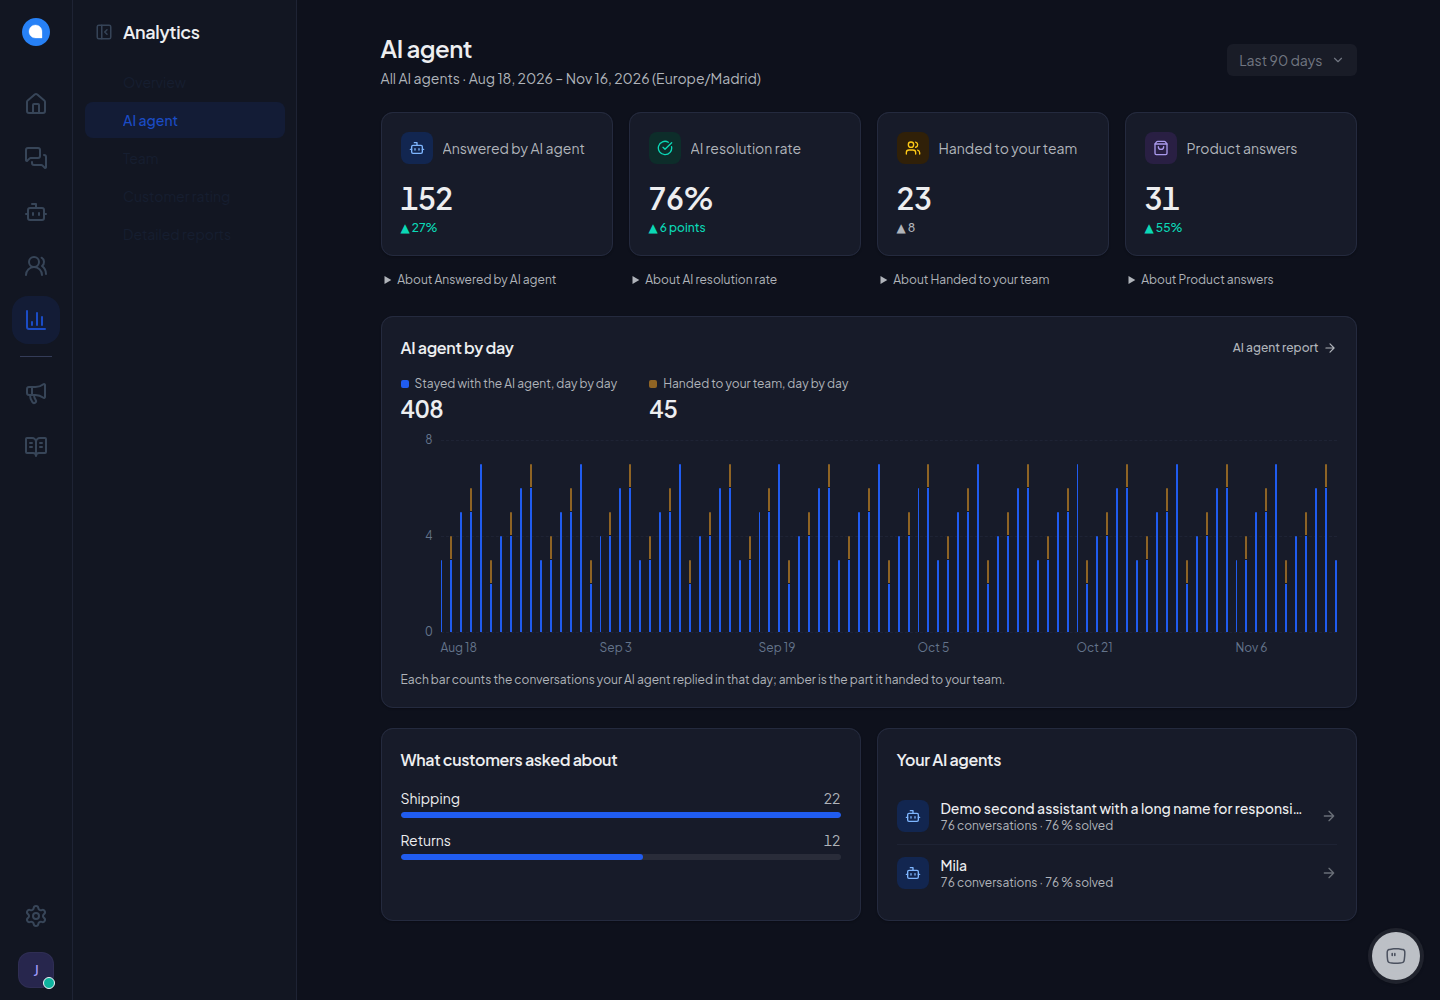
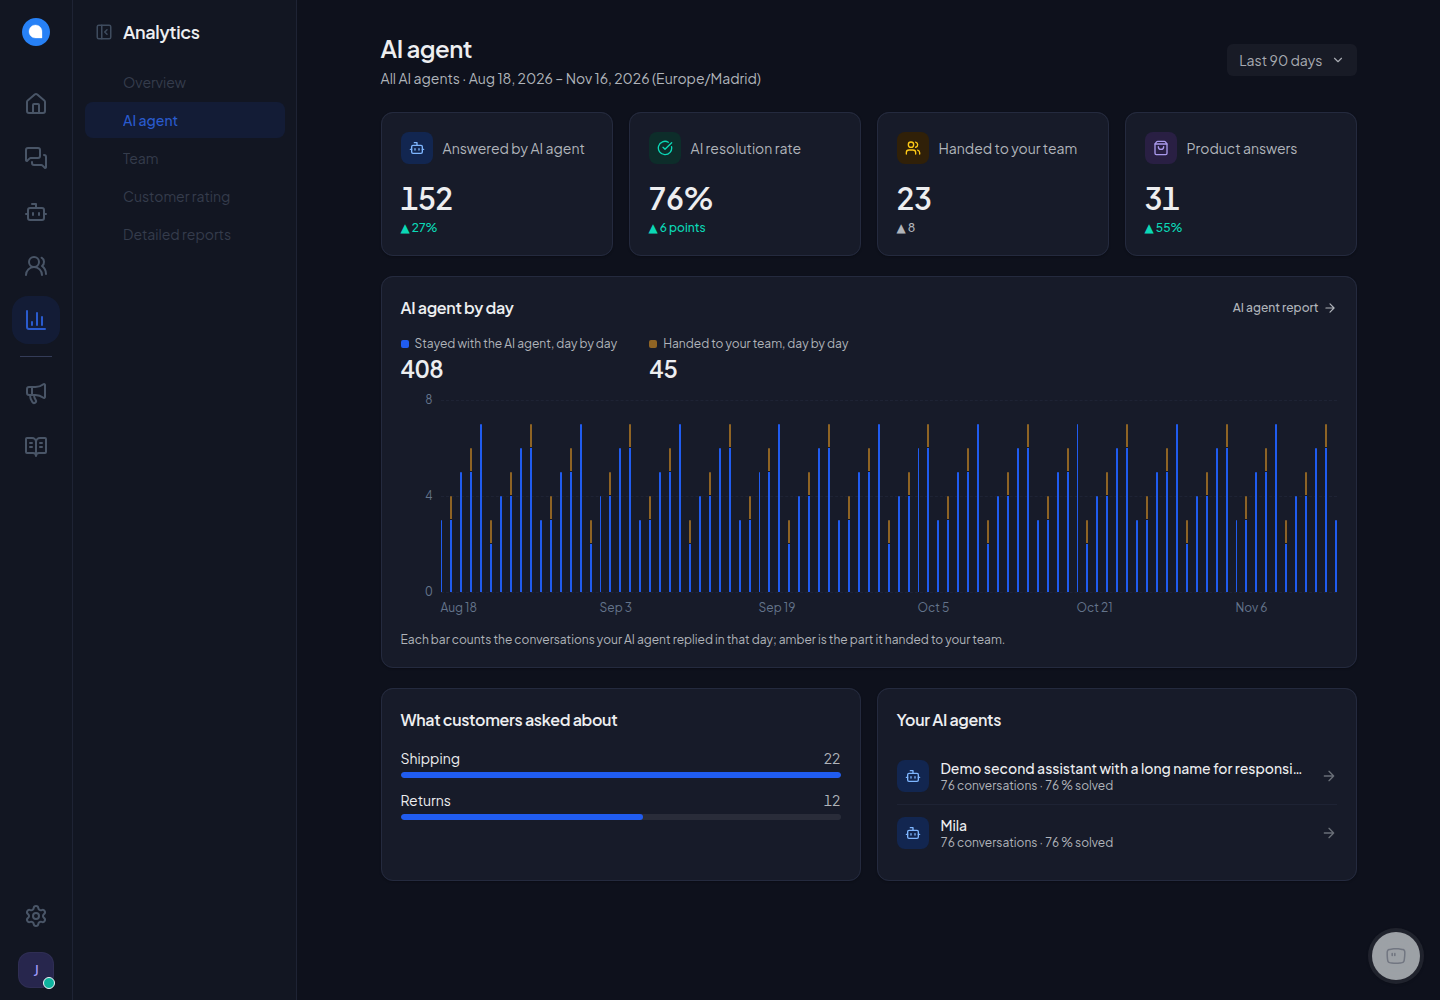
fix(analytics): remove metric explanation expanders (#242)

diff --git a/app/javascript/dashboard/routes/dashboard/analytics/components/MetricTiles.vue b/app/javascript/dashboard/routes/dashboard/analytics/components/MetricTiles.vue
@@ -27,25 +27,16 @@ const emit = defineEmits(['retry']);
     <CardError @retry="emit('retry')" />
   </div>
   <div v-else class="grid grid-cols-2 gap-3 sm:gap-4 lg:grid-cols-4">
-    <div v-for="tile in tiles" :key="tile.key" class="flex min-w-0 flex-col">
-      <MetricTile
-        class="flex-1"
-        :label="tile.label"
-        :value="tile.value"
-        :icon="tile.icon"
-        :tone="tile.tone"
-        :change="tile.change"
-        :change-tone="tile.changeTone"
-        :is-loading="isLoading"
-      />
-      <details v-if="tile.hint" class="mt-2 px-1 text-xs text-n-slate-11">
-        <summary
-          class="cursor-pointer rounded py-2 focus-visible:outline focus-visible:outline-n-brand"
-        >
-          {{ $t('ANALYTICS.METRIC_DEFINITION', { metric: tile.label }) }}
-        </summary>
-        <p class="mb-0 py-2">{{ tile.hint }}</p>
-      </details>
-    </div>
+    <MetricTile
+      v-for="tile in tiles"
+      :key="tile.key"
+      :label="tile.label"
+      :value="tile.value"
+      :icon="tile.icon"
+      :tone="tile.tone"
+      :change="tile.change"
+      :change-tone="tile.changeTone"
+      :is-loading="isLoading"
+    />
   </div>
 </template>

diff --git a/app/javascript/dashboard/routes/dashboard/analytics/specs/reportContext.spec.js b/app/javascript/dashboard/routes/dashboard/analytics/specs/reportContext.spec.js
@@ -1,7 +1,6 @@
 import { mount, flushPromises } from '@vue/test-utils';
 import { createMemoryHistory, createRouter } from 'vue-router';
 import Index from '../Index.vue';
-import MetricTiles from '../components/MetricTiles.vue';
 
 vi.mock('vue-i18n', () => ({
   useI18n: () => ({
@@ -79,28 +78,5 @@ it('preserves Overview ranges through refresh, tab navigation and history', asyn
   expect(wrapper.get('[role="status"]').text()).toContain(
     'ANALYTICS.UNSUPPORTED_PERIOD'
   );
-  wrapper.unmount();
-});
-
-it('renders definitions as native keyboard and touch disclosure controls', () => {
-  const wrapper = mount(MetricTiles, {
-    props: {
-      tiles: [
-        {
-          key: 'handed',
-          label: 'Handed to team',
-          value: 0,
-          icon: 'i-lucide-users',
-          tone: 'amber',
-          hint: 'More handoffs can mean correct escalation.',
-        },
-      ],
-    },
-    global: { mocks: { $t: key => key }, stubs: { MetricTile: true } },
-  });
-  expect(wrapper.get('details summary').text()).toContain(
-    'ANALYTICS.METRIC_DEFINITION'
-  );
-  expect(wrapper.get('details p').text()).toContain('correct escalation');
   wrapper.unmount();
 });

diff --git a/app/javascript/dashboard/routes/dashboard/analytics/analyticsView.js b/app/javascript/dashboard/routes/dashboard/analytics/analyticsView.js
@@ -172,21 +172,6 @@ export const METRICS = {
   },
 };
 
-const metricDefinitions = t => ({
-  conversations: t('ANALYTICS.DEFINITIONS.CONVERSATIONS'),
-  ai_conversations: t('ANALYTICS.DEFINITIONS.AI_CONVERSATIONS'),
-  resolved: t('ANALYTICS.DEFINITIONS.RESOLVED'),
-  handed: t('ANALYTICS.DEFINITIONS.HANDED'),
-  product_answers: t('ANALYTICS.DEFINITIONS.PRODUCT_ANSWERS'),
-  first_reply: t('ANALYTICS.DEFINITIONS.FIRST_REPLY'),
-  resolution_time: t('ANALYTICS.DEFINITIONS.RESOLUTION_TIME'),
-  team_solved: t('ANALYTICS.DEFINITIONS.TEAM_SOLVED'),
-  rating: t('ANALYTICS.DEFINITIONS.RATING'),
-  ratings_count: t('ANALYTICS.DEFINITIONS.RATINGS_COUNT'),
-  happy_share: t('ANALYTICS.DEFINITIONS.HAPPY_SHARE'),
-  reply_share: t('ANALYTICS.DEFINITIONS.REPLY_SHARE'),
-});
-
 const EMPTY = { value: null, previous: null, points: [] };
 
 const pair = (current, previous, key) => ({
@@ -270,7 +255,6 @@ export const metricView = (key, metric, label, t) => {
         ? t('ANALYTICS.NO_COMPARISON')
         : ''),
     changeTone: config.neutralTrend ? 'neutral' : change.tone,
-    hint: metricDefinitions(t)[key],
     points: (metric.points || []).filter(point => point !== null),
   };
 };

diff --git a/app/javascript/dashboard/routes/dashboard/analytics/specs/analyticsView.spec.js b/app/javascript/dashboard/routes/dashboard/analytics/specs/analyticsView.spec.js
@@ -278,7 +278,7 @@ describe('calendar report windows', () => {
   });
 });
 
-it('treats increased handoffs neutrally and explains the denominator', () => {
+it('treats increased handoffs neutrally', () => {
   const view = metricView(
     'handed',
     { value: 8, previous: 3 },
@@ -286,7 +286,6 @@ it('treats increased handoffs neutrally and explains the denominator', () => {
     t
   );
   expect(view.changeTone).toBe('neutral');
-  expect(view.hint).toBe('ANALYTICS.DEFINITIONS.HANDED');
 });
 
 it('distinguishes no handled conversations, missing ratings and zero counts', () => {
